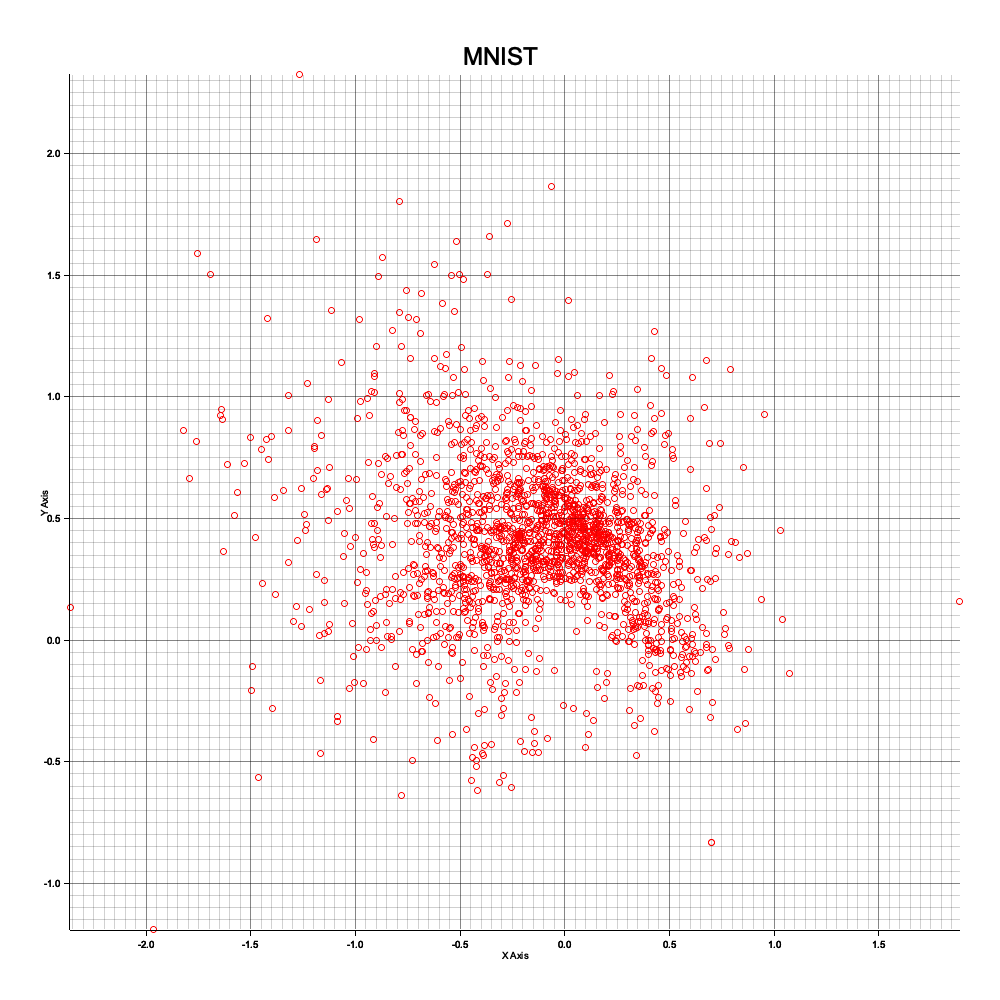
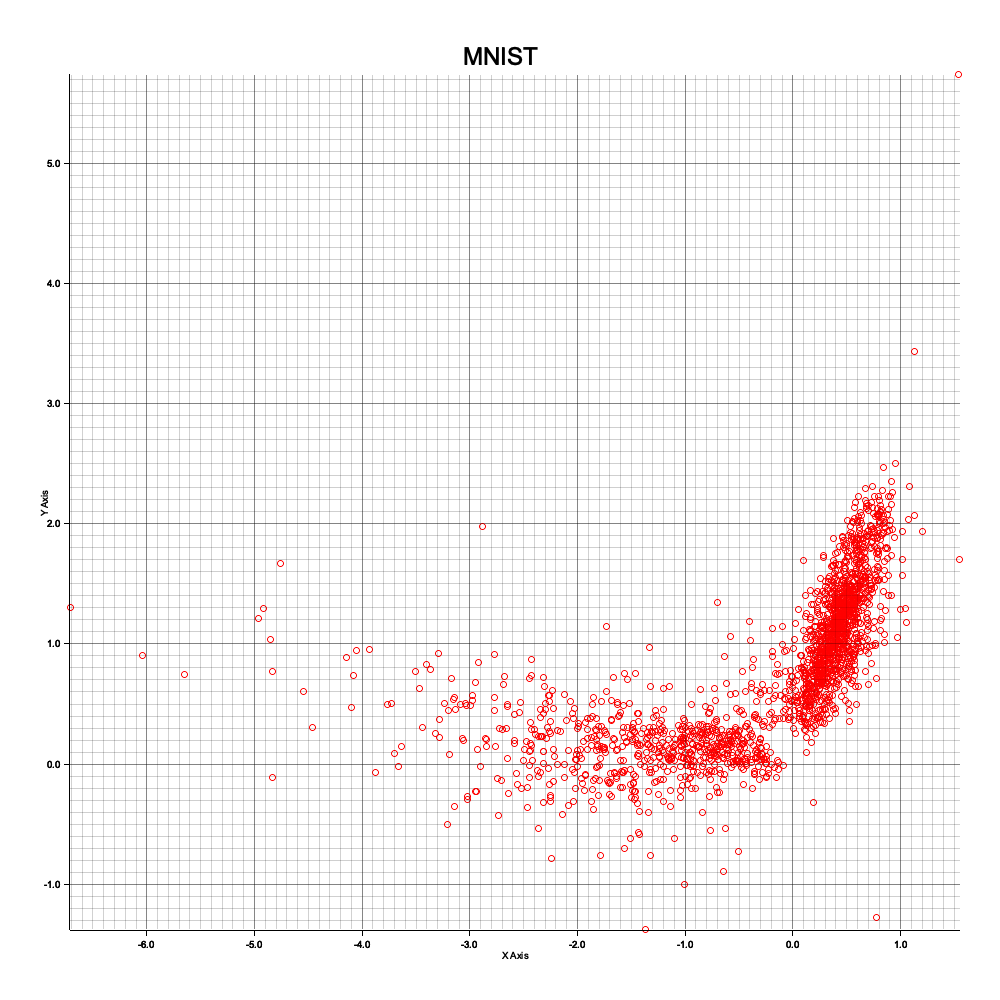
added cosine distance

Changed region(s): [[0.031, 0.062, 0.961, 0.961]]

diff --git a/src/distances.rs b/src/distances.rs
@@ -99,3 +99,59 @@ pub fn manhattan<B: AutodiffBackend>(tensor: Tensor<B, 2>) -> Tensor<B, 1> {
 
     x
 }
+
+/// Computes the cosine similarity between each row of a 2D tensor and the first row.
+///
+/// This function calculates the cosine similarity between each sample (row) in the input tensor
+/// and the first sample (first row). The cosine similarity is defined as the dot product of two
+/// vectors divided by the product of their magnitudes (L2 norms). The result is a 1D tensor where
+/// each element represents the cosine similarity between the corresponding row and the first row.
+///
+/// # Arguments
+/// * `tensor` - A 2D tensor of shape `(n_samples, n_features)` representing the data. The function
+///   computes cosine similarity between each row (sample) and the first row.
+///
+/// # Returns
+/// A 1D tensor of shape `(n_samples,)` containing the cosine similarities between the first row and
+/// each of the other rows in the input tensor. The values are in the range [-1, 1], where 1 indicates
+/// identical orientation, 0 indicates orthogonality, and -1 indicates opposite orientation.
+///
+/// # Example
+/// ```
+/// let tensor = Tensor::from([[1.0, 2.0, 3.0], [4.0, 5.0, 6.0], [7.0, 8.0, 9.0]]);
+/// let similarities = cosine(tensor);
+/// // `similarities` is a 1D tensor of cosine similarities between the first row and all other rows
+/// ```
+///
+/// # Notes
+/// The function uses the following steps:
+/// 1. Computes the L2 norm (magnitude) of the first row.
+/// 2. Computes the dot product of each row with the first row.
+/// 3. Computes the L2 norm of each row.
+/// 4. Divides the dot product by the product of the norms to compute cosine similarity.
+///
+/// # Performance
+/// This function clones the tensor multiple times, which may impact performance for large tensors.
+/// Optimizations could be made to minimize memory allocations and cloning.
+pub fn cosine<B: AutodiffBackend>(tensor: Tensor<B, 2>) -> Tensor<B, 1> {
+    let n_samples = tensor.dims()[0];
+    let n_features = tensor.dims()[1];
+    // First, get the first row to compare to
+    let first_row = tensor.clone().slice([0..1, 0..n_features]); // Select the first row
+
+    // Compute L2 norm of the first row manually (sqrt(sum(x^2)))
+    let first_row_norm = first_row.clone().powi_scalar(2).sum_dim(1).sqrt();
+
+    // Compute dot product of each row with the first row
+    let dot_product: Tensor<B, 2> = tensor.clone().mul(first_row.clone()); // Calculate dot product for each row
+    let dot_product: Tensor<B, 3> = dot_product.unsqueeze_dim(2);
+    let dot_product: Tensor<B, 2> = dot_product.sum_dim(1).reshape([n_samples, 1]); // Reshape to a column vector (1D)
+
+    // Compute L2 norm (magnitude) of each row manually (sqrt(sum(x^2)))
+    let row_norms = tensor.clone().powi_scalar(2).sum_dim(1).sqrt();
+
+    // Compute cosine similarity
+    let x = dot_product.div(row_norms).div(first_row_norm);
+
+    x.reshape([n_samples])
+}

diff --git a/src/train/config.rs b/src/train/config.rs
@@ -13,7 +13,7 @@ pub enum Metric {
     EuclideanKNN,
     // EuclideanWeighted,
     Manhattan,
-    // Cosine,
+    Cosine,
     // Correlation,
     // Hamming,
     // Jaccard,
@@ -30,6 +30,7 @@ impl From<&str> for Metric {
             "euclidean" => Metric::Euclidean,
             "euclideanknn" | "euclidean_knn" => Metric::EuclideanKNN,
             "manhattan" => Metric::Manhattan,
+            "cosine" => Metric::Cosine,
             _ => panic!("Invalid metric type: {}", s),
         }
     }
@@ -42,6 +43,7 @@ impl fmt::Display for Metric {
             Metric::Euclidean => write!(f, "Euclidean"),
             Metric::EuclideanKNN => write!(f, "Euclidean KNN"),
             Metric::Manhattan => write!(f, "Manhattan"),
+            Metric::Cosine => write!(f, "cosine"),
         }
     }
 }

diff --git a/examples/mnist.rs b/examples/mnist.rs
@@ -37,7 +37,7 @@ fn main() {
     let verbose = true; // Whether to enable the progress bar during training
     let patience = 100; // Number of epochs without improvement before early stopping
     let min_desired_loss = 0.0001; // Minimum loss threshold for early stopping
-    let metric = Metric::Manhattan; // Alternative metric for neighbors search
+    let metric = Metric::Cosine; // Alternative metric for neighbors search
     let loss_reduction = LossReduction::Sum;
 
     // let timeout = 60; // timeout in seconds

diff --git a/src/train/get_distance_by_metric.rs b/src/train/get_distance_by_metric.rs
@@ -38,6 +38,7 @@ pub fn get_distance_by_metric<B: AutodiffBackend>(
         Metric::Euclidean => euclidean(data),
         Metric::EuclideanKNN => euclidean_knn(data, config.k_neighbors),
         Metric::Manhattan => manhattan(data),
+        Metric::Cosine => cosine(data),
     };
 
     match config.normalized {
